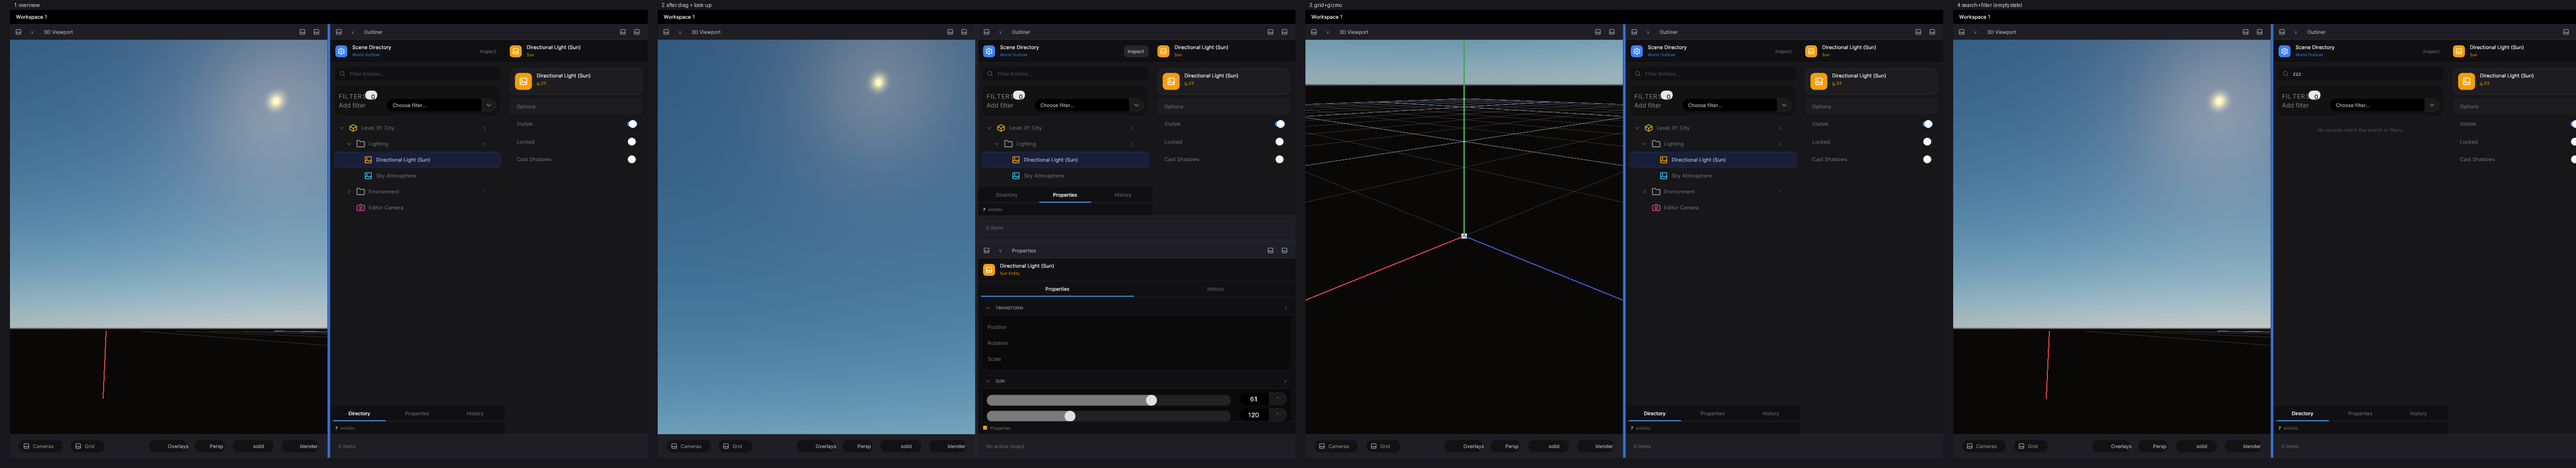
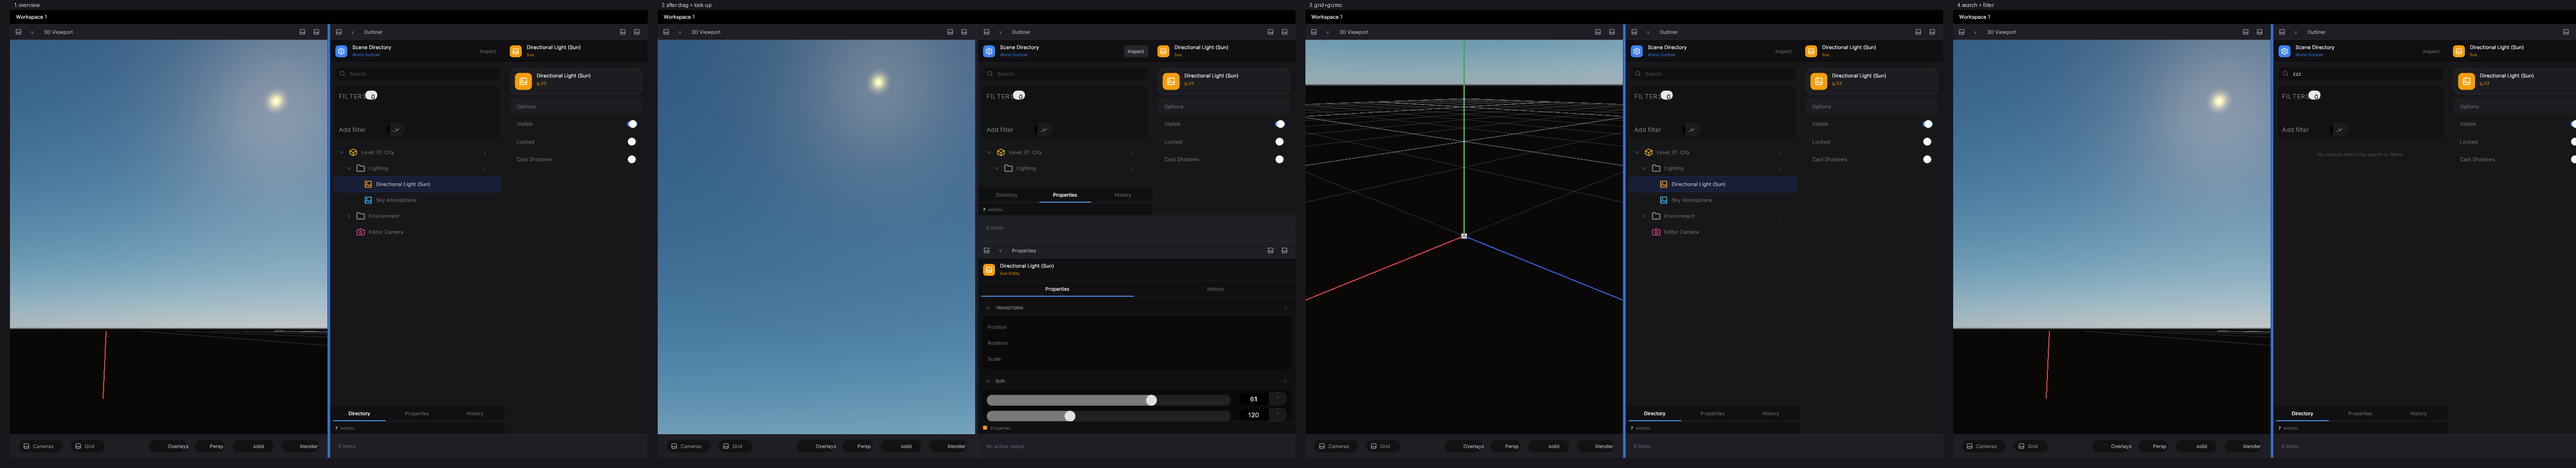
Editor: fix the squashed filters — pill search, left-stuck Add-filter pill, chip shadowing bug
The reported "squashed" filter card had a real root cause: in FacetPanel's
Arrange and Record, the local figures were named ChipHeight / HeaderHeight —
the SAME names as the anonymous-namespace constants they scale. A local
shadowing a global by the same name read the global's uninitialised slot, so
the card computed a zero-height header, zero-height chips and a clipped
dropdown: the squash. The locals are ChipRowY / HeaderRowY now, and the
comment explains the discipline.

The layout itself is also corrected to the requested shape:

- The search field is a PILL: its corner radius is half the field's height, so
  both ends are fully rounded (it used the small card radius and read as a
  squashed input). Placeholder text is now "Search..." instead of the
  reference's "Filter Entities...".
- The Add-filter control is a compact PILL stuck to the card's LEFT edge
  (132 px wide), never the full-width field that read as a bar across the
  card; the dropdown menu still composites above the rows via the deferred
  popup.
- The chips keep their full 27 px height and wrap to new rows with the flex
  gap, exactly as the reference's wrapped chips do.

Verified: the outliner column now shows header -> pill search -> facet card
(header, full-height chip row, left-stuck Add-filter pill) -> rows; all six
proof scenarios pass, 138/138 TUs, 66/66 assertions.

Changed region(s): [[0.6228, 0.3085, 0.7162, 0.4628], [0.1246, 0.3085, 0.218, 0.4628], [0.3737, 0.3085, 0.4671, 0.3702]]

diff --git a/Engine/SlateUI/Interface/FacetPanel/Source/FacetPanel.cpp b/Engine/SlateUI/Interface/FacetPanel/Source/FacetPanel.cpp
@@ -27,6 +27,7 @@ constexpr float ChipRemoveGap    = 6.0f;    // [px] - caption to remove action
 constexpr float ChipPadTrailing  = 5.0f;    // [px] - remove action trailing inset
 constexpr float DropdownGap      = 10.0f;   // [px] - chips to dropdown
 constexpr float CardTrailingPad  = 10.0f;   // [px] - dropdown to card edge
+constexpr float DropdownPillX    = 132.0f;  // [px] - the left-stuck Add-filter pill's width
 constexpr float CountX       = 24.0f;   // [px] - active count badge floor
 constexpr float ClearX       = 48.0f;   // [px] - clear-all action
 
@@ -96,11 +97,15 @@ FacetPanel::Arrangement FacetPanel::Arrange(float X,
     const float InteriorX = (Width > Pad * 2.0f) ? Width - Pad * 2.0f : 0.0f;
     const float TextSize = (Appearance->ControlMeasure.RowText > 11.0f * Scale)
                          ? Appearance->ControlMeasure.RowText : 11.0f * Scale;
-    const float ChipHeight = ChipHeight * Scale;
+    // 🔴 These are LOCAL figures, named apart from the anonymous-namespace constants they scale —
+    //    a local shadowing the global by the same name read the global's uninitialised slot and
+    //    collapsed the whole card (the "squashed filters": a zero-height header, zero-height chips
+    //    and a negative card height that clipped every chip and dropdown).
+    const float ChipRowY = ChipHeight * Scale;
     const float Gap = ChipGap * Scale;
     float ChipX = 0.0f;
     float ChipCursorY = 0.0f;
-    float ChipsHeight = ChipHeight;
+    float ChipsHeight = ChipRowY;
     bool ActivePresent = false;
 
     const std::uint32_t Count = (Declared.OptionCount < FacetCapacity)
@@ -119,26 +124,29 @@ FacetPanel::Arrangement FacetPanel::Arrange(float X,
         if (ChipX > 0.0f && ChipX + RequiredX > InteriorX)
         {
             ChipX = 0.0f;
-            ChipCursorY += ChipHeight + Gap;
-            ChipsHeight += ChipHeight + Gap;
+            ChipCursorY += ChipRowY + Gap;
+            ChipsHeight += ChipRowY + Gap;
         }
 
         ChipX += RequiredX + Gap;
     }
 
     if (!ActivePresent)
-        ChipsHeight = ChipHeight;
+        ChipsHeight = ChipRowY;
 
-    const float HeaderHeight = HeaderHeight * Scale;
+    const float HeaderRowY = HeaderHeight * Scale;
     const float HeaderToChips = HeaderGap * Scale;
-    const float ChipsTop = Y + Pad + HeaderHeight + HeaderToChips;
+    const float ChipsTop = Y + Pad + HeaderRowY + HeaderToChips;
     const float DropdownTop = ChipsTop + ChipsHeight + DropdownGap * Scale;
     const float DropdownHeight = Appearance->ControlMeasure.FieldHeight;
 
-    Arranged.Header = Spanning(X + Pad, Y + Pad, InteriorX, HeaderHeight);
+    Arranged.Header = Spanning(X + Pad, Y + Pad, InteriorX, HeaderRowY);
     Arranged.Chips = Spanning(X + Pad, ChipsTop, InteriorX, ChipsHeight);
-    Arranged.Dropdown = Spanning(X + Pad, DropdownTop, InteriorX, DropdownHeight);
-    Arranged.TotalY = Pad + HeaderHeight + HeaderToChips + ChipsHeight + DropdownGap * Scale +
+    // 📐 The Add-filter control is a compact PILL stuck to the card's left edge — never a
+    //    full-width field, which read as a squashed bar across the card (the reported layout).
+    Arranged.Dropdown = Spanning(X + Pad, DropdownTop,
+                                 DropdownPillX * Scale, DropdownHeight);
+    Arranged.TotalY = Pad + HeaderRowY + HeaderToChips + ChipsHeight + DropdownGap * Scale +
                            DropdownHeight + CardTrailingPad * Scale;
     return Arranged;
 }
@@ -251,7 +259,10 @@ Outcome<bool> FacetPanel::Record(const PlaneExtent& Extent,
         }
     }
 
-    const float ChipHeight = ChipHeight * Scale;
+    // 🔴 The same shadowing discipline as Arrange: a local named after the global constant it
+    //    scales would read the global's uninitialised slot and draw every chip with a garbage height
+    //    and radius — the squashed chips of the reported render.
+    const float ChipRowY = ChipHeight * Scale;
     const float Gap = ChipGap * Scale;
     float CursorX = Arranged.Chips.MinimumX;
     float CursorY = Arranged.Chips.MinimumY;
@@ -268,20 +279,20 @@ Outcome<bool> FacetPanel::Record(const PlaneExtent& Extent,
         if (CursorX > Arranged.Chips.MinimumX && CursorX + RequiredX > Arranged.Chips.MaximumX)
         {
             CursorX = Arranged.Chips.MinimumX;
-            CursorY += ChipHeight + Gap;
+            CursorY += ChipRowY + Gap;
         }
 
-        const PlaneExtent Chip = Spanning(CursorX, CursorY, RequiredX, ChipHeight);
-        Surface->Ground(Chip, Colour.FieldGround, ChipHeight * 0.5f, CornerAll);
+        const PlaneExtent Chip = Spanning(CursorX, CursorY, RequiredX, ChipRowY);
+        Surface->Ground(Chip, Colour.FieldGround, ChipRowY * 0.5f, CornerAll);
         Surface->Edge(Chip, Colour.CardEdge, Appearance->ControlMeasure.CardEdgeWeight,
-                      ChipHeight * 0.5f, CornerAll);
+                      ChipRowY * 0.5f, CornerAll);
         Surface->Medallion(Chip.MinimumX + ChipPadLeading * Scale + ChipSwatch * Scale * 0.5f,
-                           Chip.MinimumY + ChipHeight * 0.5f,
+                           Chip.MinimumY + ChipRowY * 0.5f,
                            ChipSwatch * Scale * 0.5f,
                            FacetColour(Declared, Ordinal));
         const float CaptionTop = Chip.MinimumX + (ChipPadLeading + ChipSwatch + ChipSwatchGap) * Scale;
         Surface->TextRun(CaptionTop,
-                         Chip.MinimumY + (ChipHeight - TextSize) * 0.5f,
+                         Chip.MinimumY + (ChipRowY - TextSize) * 0.5f,
                          Colour.FieldColour,
                          Caption,
                          TextSize,
@@ -289,7 +300,7 @@ Outcome<bool> FacetPanel::Record(const PlaneExtent& Extent,
                          false);
 
         const PlaneExtent Remove = Spanning(Chip.MaximumX - (ChipRemove + ChipPadTrailing) * Scale,
-                                            Chip.MinimumY + (ChipHeight - ChipRemove * Scale) * 0.5f,
+                                            Chip.MinimumY + (ChipRowY - ChipRemove * Scale) * 0.5f,
                                             ChipRemove * Scale,
                                             ChipRemove * Scale);
         Surface->Ground(Remove, Colour.CellGround, Remove.Height() * 0.5f, CornerAll);

diff --git a/Engine/SlateUI/Interface/SceneDirectoryPanel/Source/SceneDirectoryPanel.cpp b/Engine/SlateUI/Interface/SceneDirectoryPanel/Source/SceneDirectoryPanel.cpp
@@ -898,8 +898,9 @@ void SceneDirectoryPanel::RecordOutliner(const PlaneExtent& Extent, SceneDirecto
     const TabDeclaration PageDeclared{ PageCaptions, 3u };
     static_cast<void>(Controls.TabStrip(OutlineStrip, Strip, PageDeclared, Applied.OutlinePage));
 
-    // 📝 The search field, between the header and the rows — the scene directory's own filter box.
-    //    The host feeds the typed run through the seam's `AcceptTyped` while `SearchTaken` stands
+    // 📝 The search field, between the header and the rows — the scene directory's own filter box,
+    //    drawn as a PILL: the radius is half the field's height, so both ends are fully rounded. The
+    //    host feeds the typed run through the seam's `AcceptTyped` while `SearchTaken` stands
     //    (reported by `Advance`), and Backspace/Escape clear it.
     const PlaneExtent Search = Spanning(Outlining.MinimumX + Pad, Header.MaximumY + Pad,
                                         Outlining.Width() - Pad * 2.0f, Scaled.SearchHeight);
@@ -912,9 +913,13 @@ void SceneDirectoryPanel::RecordOutliner(const PlaneExtent& Extent, SceneDirecto
 
         const bool Taken = Ledger->Holding(SearchField) || Ledger->Disclosed(SearchField);
 
-        Surface->Ground(Search, Tinted.MenuLower, Scaled.FieldRadius, CornerAll);
+        // 🔴 A pill: `Search.Height() * 0.5f` corners, never the card radius — the reported render
+        //    showed the search box with the field's small radius, reading as a squashed input.
+        const float PillRadius = Search.Height() * 0.5f;
+
+        Surface->Ground(Search, Tinted.MenuLower, PillRadius, CornerAll);
         Surface->Edge(Search, Taken ? Faded(Covering(0xFFFFFFu), 0.22f) : Tinted.Hairline,
-                      1.0f, Scaled.FieldRadius, CornerAll);
+                      1.0f, PillRadius, CornerAll);
 
         const float GlyphExtent = 14.0f;
         const float GlyphLead   = Search.MinimumX + 10.0f;
@@ -931,7 +936,7 @@ void SceneDirectoryPanel::RecordOutliner(const PlaneExtent& Extent, SceneDirecto
 
         Surface->TextRunTruncated(RunLead, RunTop, Search.MaximumX - RunLead - 8.0f,
                                   Empty ? Tinted.Faint : Tinted.Primary,
-                                  Empty ? "Filter Entities\u2026" : Applied.EntityRetention, FieldRun);
+                                  Empty ? "Search\u2026" : Applied.EntityRetention, FieldRun);
     }
 
     // 📝 The filter card — the validation UI's generic facet filter, ported to the editor: wrapped

diff --git a/AgenticInstuctions/EDITOR-AND-VALIDATION.md b/AgenticInstuctions/EDITOR-AND-VALIDATION.md
@@ -147,6 +147,13 @@ its own pass inside the host's dynamic-rendering scope, AFTER the interface.
   A stack local in `Construct` is use-after-scope the moment the struct grows:
   intermittent segfaults, flat dark-blue renders and "missing" axes/rows all
   came from exactly that, and ASAN caught it at `WorkspacePanel::Record`.
+- 🔴 SHADOWING LESSON (do not regress): in `FacetPanel::Arrange` and
+  `Record`, the local figures were named `ChipHeight` / `HeaderHeight`, the
+  SAME names as the anonymous-namespace constants they scale — a local
+  shadowing a global by the same name reads the global's uninitialised slot,
+  collapsing the whole card (the "squashed filters": zero-height chips,
+  zero-height header, clipped dropdown). The locals are `ChipRowY` /
+  `HeaderRowY` now.
 - The sky dome is direction-indexed and camera-independent: looking around only
   moves the crop, never regenerates the texture. The viewport samples the dome
   through a PERSPECTIVE mesh (per-vertex UVs along the true pinhole ray), so
@@ -178,7 +185,10 @@ its own pass inside the host's dynamic-rendering scope, AFTER the interface.
   contain the search run AND its category's facet is enabled; a row also
   shows when a descendant matches, and while the filter stands every branch
   is forced open. All facets off = no filtering; an empty run = no search.
-  The harness's `editor-search-filter` asserts the typed run lands, the tag
+  The Add-filter control is a compact PILL stuck to the card's left edge
+  (132 px, never full-width), and the chips wrap to new rows with the gap
+  between them — exactly the reference's flex-wrap. The harness's
+  `editor-search-filter` asserts the typed run lands, the tag
   "fly" finds the camera (tagged "camera fly view") even though no name
   contains it, the Lights facet narrows to two rows, and "zzz" reaches the
   empty state.
